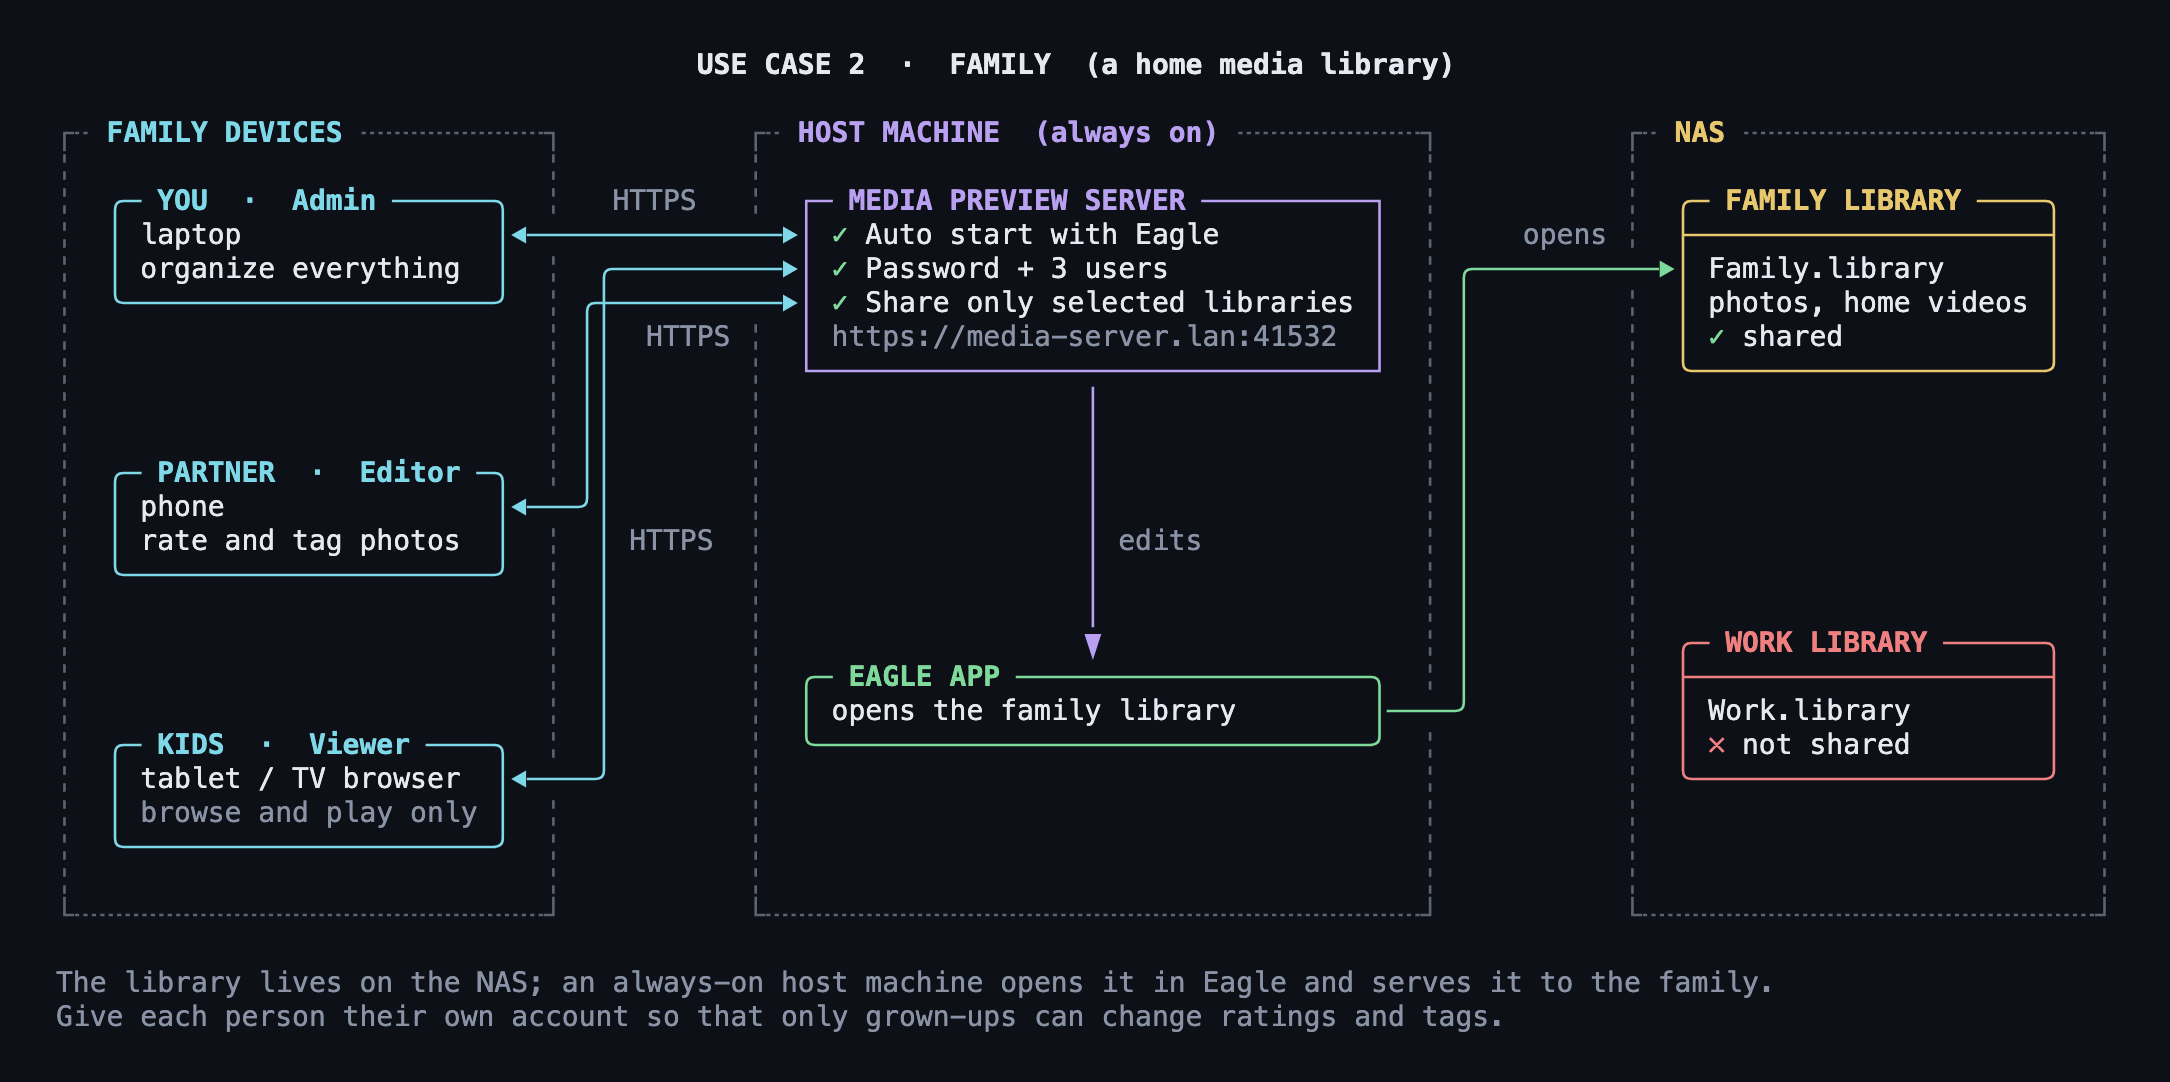
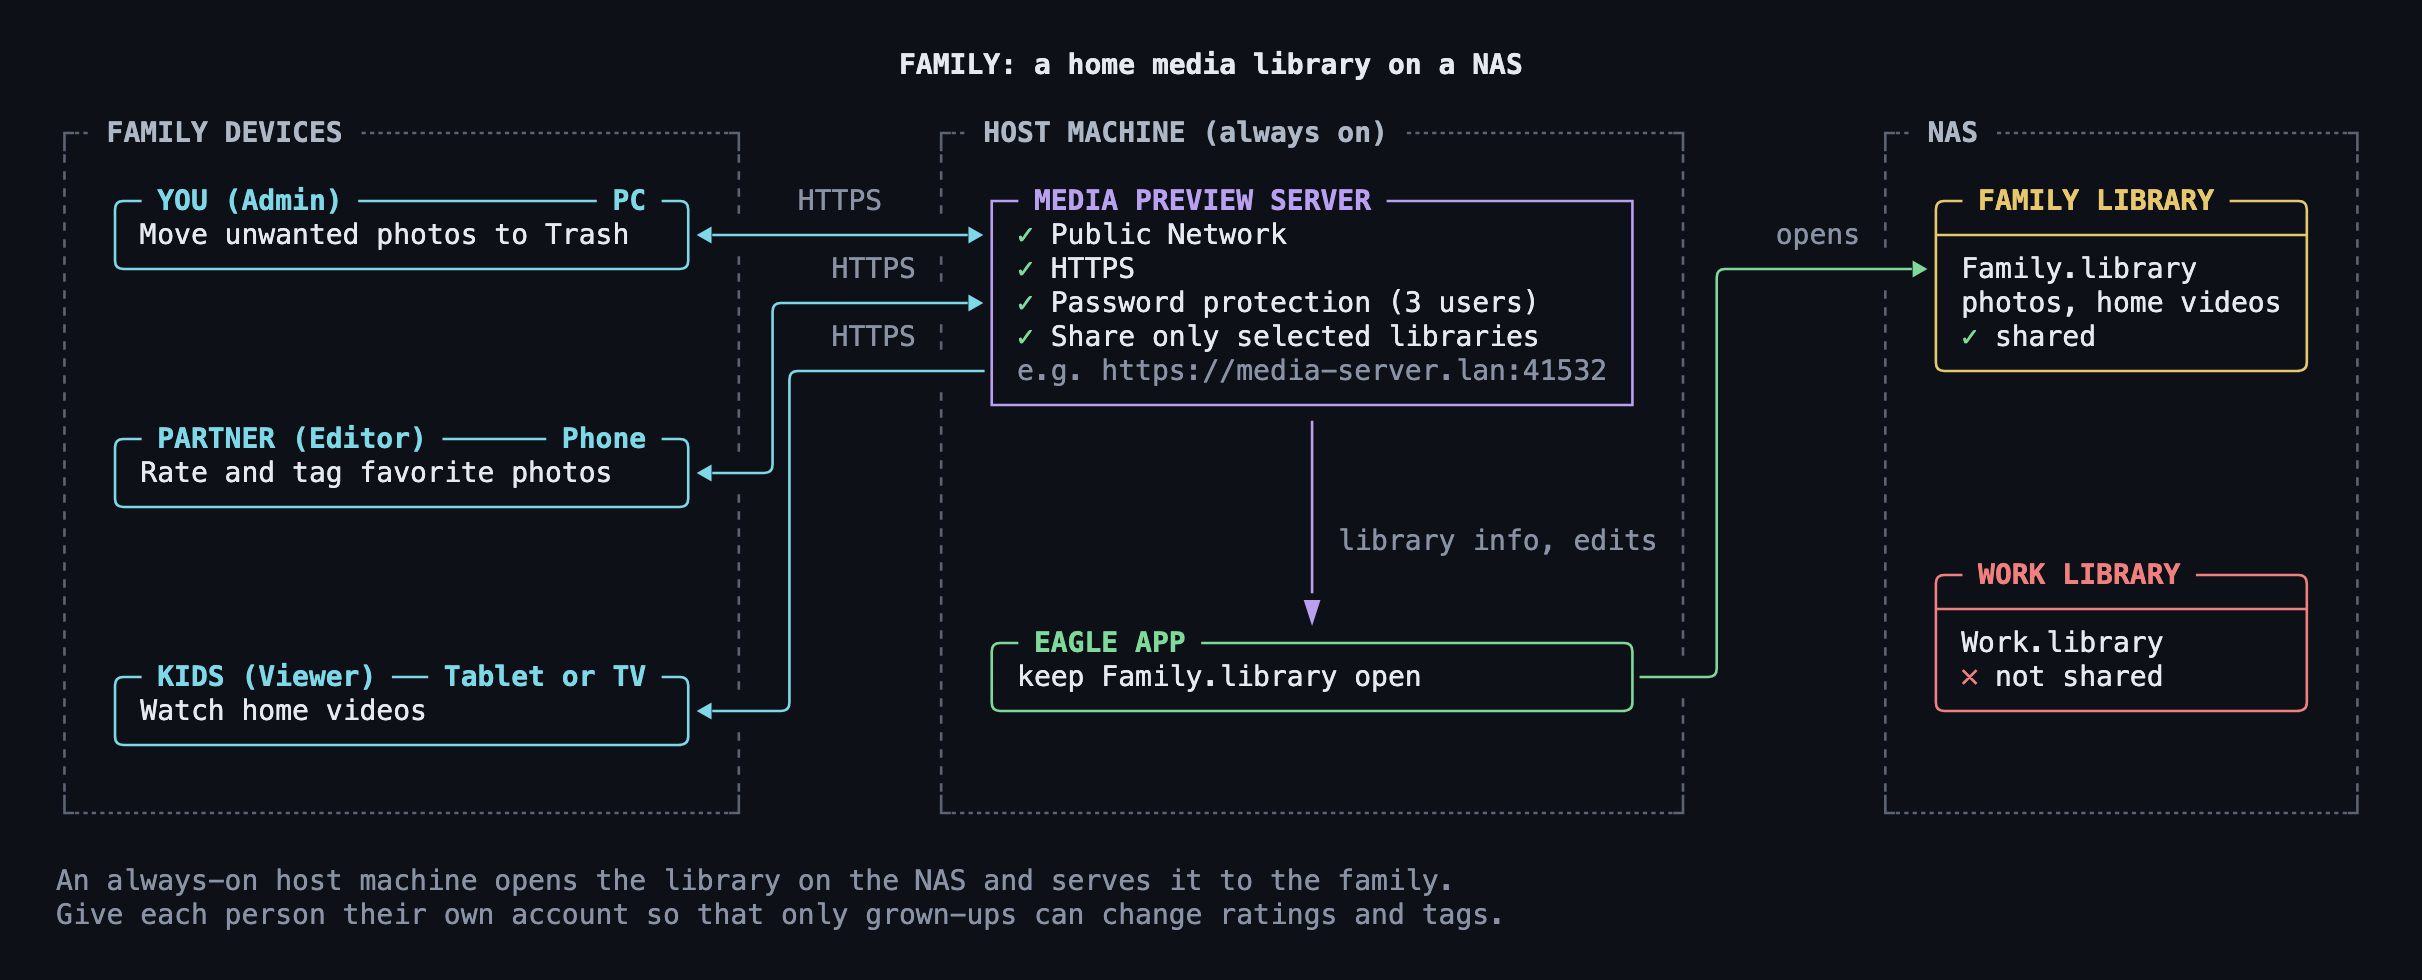
docs: update use case diagrams and descriptions; enhance README and development documentation

diff --git a/docs/DEVELOPMENT.md b/docs/DEVELOPMENT.md
@@ -32,6 +32,30 @@ npm test
 
 Run `npm run verify` before committing when you need the full TypeScript, Vite build, and Vitest check in one command.
 
+## Documentation diagrams
+
+Edit the Mermaid sources in [docs/use-cases](use-cases), then regenerate the README images with the pinned `tui-mermaid-diagram` version. PNG export requires Chrome or Chromium. Set `CHROME_PATH` if the browser is installed in a custom location. On Apple Silicon, use native builds of Node.js and Chrome if rendering under Rosetta times out.
+
+```sh
+npm run diagram:images -- personal family business upload
+npm run diagram:images -- family
+```
+
+Keep the use-case diagrams consistent:
+
+- Title: `CASE: short description`, e.g. `FAMILY: a home media library on a NAS`. Do not use `·` as a separator.
+- Three columns, left to right: client devices, `HOST MACHINE (<where>)` (server above Eagle), and storage.
+- One box per person, titled `WHO (Role) ── Device`, e.g. `PARTNER (Editor) ── Phone`, then a concrete activity such as `Rate and tag favorite photos`. Use `PC`, `Phone`, `Tablet` or `Tablet or TV` for the device. The PNG script puts the text after `──` on the right end of the top border.
+- Settings go only in the server box, as `✓` lines with the exact UI names, in this order: Public Network, HTTPS, Password protection, Share only selected libraries, Auto start. Put case details in parentheses, e.g. `Password protection (3 users)`. List only what the case turns on, then a sample endpoint URL in italic with the default port 41532: `*e.g. https://media-server.lan:41532*` with HTTPS (a hostname, since the certificate must match it), or `*e.g. http://192.168.1.20:41532*` without HTTPS (a private IP address). Use the hostname examples from the README (`studio-mac.local`, `media-server.lan`). The client arrow label names the protocol, e.g. `HTTPS` or `HTTP (office LAN)`.
+- The Eagle box says which library to keep open. Each library box ends with `✓ shared` or `✕ not shared`.
+- Do not draw setup steps (how-to) in the diagram. The README text explains them.
+- Arrow labels in lowercase: `HTTPS` (or the network) from clients, `library info, edits` (`library info` for Viewer only, `import` for uploads) to Eagle, `opens` (or `saves`) to the library.
+- Arrows between people and the server follow the role: two-way (`you <-->|HTTPS| server`) for Admin, Editor + Upload and Editor, one-way from the server (`server -->|HTTPS| kids`) for Viewer. Give one-way arrows the client color with `linkStyle <index> stroke:#7fd8e8`, since an arrow takes its source's color. If arrows cross, reorder the edge lines and update the `linkStyle` indexes.
+- Colors: gray frames (`#aeb7c6`), cyan for people and browsers (`#7fd8e8`), purple for the server (`#b9a0f0`), green for Eagle (`#7fd99a`), yellow for shared libraries (`#e8c86e`), red (`#f08080`) for excluded libraries or people without access.
+- `accDescr` has at most three lines: what the case does, then tips or caveats. Do not repeat the settings there.
+
+`npm run diagram:images` renders all diagrams. The existing `overview`, `architecture`, and `standalone` targets use [scripts/diagram.mjs](../scripts/diagram.mjs). To adopt the Mermaid workflow for one of those targets, add its source path as the third entry in the corresponding row in [scripts/diagram-images.mjs](../scripts/diagram-images.mjs) and keep its PNG path.
+
 ## Standalone server (experimental)
 
 Serves libraries to the viewer without Eagle, read only. See [docs/design/standalone-server.md](design/standalone-server.md).

diff --git a/README.md b/README.md
@@ -196,6 +196,8 @@ Each management panel shows up to 7 days of its own access history and can expor
 
 ## Use Cases
 
+To open the viewer on another device, use the URL or scan the QR code shown in **Server Status**.
+
 #### Personal: browse your own library from your laptop and phone
 
 Keep Eagle running on your desk and open the library from your laptop or phone on the home Wi-Fi. Turn on **Public Network** and **Password protection**, and set up **HTTPS** if you want to install the viewer as a PWA.
@@ -210,7 +212,7 @@ An always-on host machine opens a library stored on the NAS and serves it to the
 
 #### Business: a quick share with a teammate
 
-A shares one project library with B for a review, then stops the server. B only needs a browser. Eagle and a copy of the files are not required.
+In **Libraries**, turn on **Share only selected libraries** and select the project for review. Give your teammate a **Viewer** account to browse and preview files, or an **Editor** account if they should also rate and tag files. Turn on **Public Network** and **Password protection** in **Server Status**. Keep the project library open in Eagle, start the server, and send your teammate the viewer URL. They can sign in from a browser. Stop the server when the review ends.
 
 ![Use case: business](docs/use_case_business.png)
 
